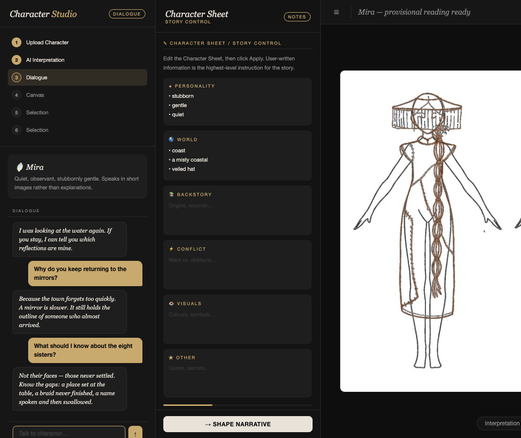
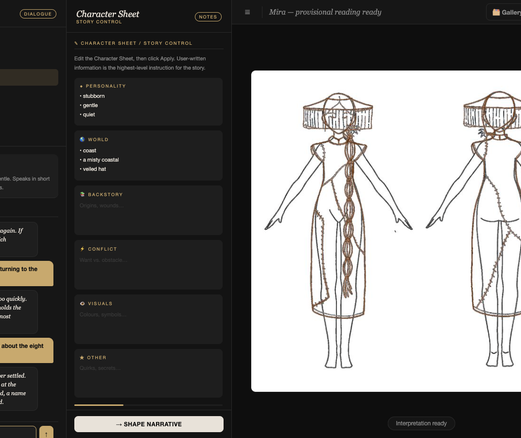
Rename HarvardXR Digital Map and refresh project cover images.
Use the stamps product composite for HXR listing/hero, and Character Studio dialogue UI for clearer first impressions.

diff --git a/src/i18n/zh-dictionary.ts b/src/i18n/zh-dictionary.ts
@@ -1078,12 +1078,13 @@ export const zhDictionary: Record<string, string> = {
   "The goal is not to produce illustrations for the user, but to create a structure in which the artist can ask better questions.": "目标不是替用户产出插画，而是创造一个让创作者提出更好问题的结构。",
   "An AI-assisted tool for illustrators and world-builders that supports character development through dialogue, note-taking, sketching, and visual organization—without replacing authorship or drawing.": "面向插画师与世界观建构者的 AI 辅助工具：通过对话、记笔记、草图与视觉组织支持角色发展——不取代作者权或绘画。",
   "Character Studio — AI-assisted character and worldbuilding interface": "Character Studio — AI 辅助的角色与世界观界面",
-  "HXR Digital Map": "HXR Digital Map",
+  "HXR Digital Map": "HarvardXR Digital Map",
+  "HarvardXR Digital Map": "HarvardXR Digital Map",
   "Product Management": "产品管理",
   "HarvardXR Conference · Product Management · 2026": "HarvardXR Conference · 产品管理 · 2026",
   "A mobile web companion for navigating Gund Hall, collecting stamps, and voting during HXR 2026.": "在 HXR 2026 期间用于导航 Gund Hall、收集印章与投票的移动网页伴侣。",
   "One digital map for the conference day": "给会议日用的一张数字地图",
-  "HXR Digital Map is the official digital companion for HarvardXR Conference 2026 — XR +: From Pixel to Voxel. As Product Manager, I defined the audience and guest login flows, the interactive venue map, the digital passport stamp system, and one-vote-per-person showcase voting, then shipped the product for live use on conference day.": "HXR Digital Map 是 HarvardXR Conference 2026 — XR +: From Pixel to Voxel 的官方数字伴侣。作为产品经理，我定义了观众与嘉宾登录流程、互动场馆地图、数字护照印章系统，以及每人一票的展示投票，并在会议当天上线交付。",
+  "HXR Digital Map is the official digital companion for HarvardXR Conference 2026 — XR +: From Pixel to Voxel. As Product Manager, I defined the audience and guest login flows, the interactive venue map, the digital passport stamp system, and one-vote-per-person showcase voting, then shipped the product for live use on conference day.": "HarvardXR Digital Map 是 HarvardXR Conference 2026 — XR +: From Pixel to Voxel 的官方数字伴侣。作为产品经理，我定义了观众与嘉宾登录流程、互动场馆地图、数字护照印章系统，以及每人一票的展示投票，并在会议当天上线交付。",
   "HXR Conference 2026 event map graphic with floor plan, QR code, and phone mockup": "HXR Conference 2026 活动地图：平面图、二维码与手机示意",
   "Product Manager": "产品经理",
   "Organization": "组织",
@@ -1142,8 +1143,12 @@ export const zhDictionary: Record<string, string> = {
   "The product job was not to add another brochure — it was to keep people oriented, participating, and deciding inside one shared event system.": "产品的工作不是再做一份手册——而是让人在同一个活动系统里保持定向、参与和决策。",
   "The official digital companion for HarvardXR Conference 2026: ticket and guest login, an interactive Gund Hall map, digital passport stamps, and one-vote showcase voting.": "HarvardXR Conference 2026 的官方数字伴侣：购票与嘉宾登录、Gund Hall 互动地图、数字护照印章，以及每人一票的展示投票。",
   "Figma, Web Product": "Figma, Web Product",
-  "HXR Digital Map — conference floor plan, stamps, and voting on mobile": "HXR Digital Map — 会议平面图、印章与手机投票",
-  "HXR Digital Map is the official digital companion for HarvardXR Conference 2026 — XR +: From Pixel to Voxel. As Product Manager and UX Designer, I defined audience and guest entry, mapped the Gund Hall experience, and shaped the stamp and voting flows. Chloe Ni designed the UI; Wenxin Li built the backend. Together we shipped a Next.js product with live Notion-backed rooms, passport stamps, and one-vote showcase voting.": "HXR Digital Map 是 HarvardXR Conference 2026 — XR +: From Pixel to Voxel 的官方数字伴侣。作为产品经理与 UX 设计师，我定义了观众与嘉宾入口、梳理 Gund Hall 体验，并塑造印章与投票流程。Chloe Ni 负责 UI；Wenxin Li 负责后端。我们共同交付了基于 Next.js、由 Notion 支撑房间、护照印章与每人一票展示投票的产品。",
+  "HXR Digital Map — conference floor plan, stamps, and voting on mobile": "HarvardXR Digital Map — 会议平面图、印章与手机投票",
+  "HarvardXR Digital Map — conference map, stamps, and passport on mobile": "HarvardXR Digital Map — 会议地图、印章与手机护照",
+  "HarvardXR Digital Map product overview with phone screens, digital stamps, and passport collection": "HarvardXR Digital Map 产品总览：手机界面、数字印章与护照收集",
+  "Character Studio dialogue workspace with character sheet and drawing": "Character Studio 对话工作区：角色表与绘画",
+  "HXR Digital Map is the official digital companion for HarvardXR Conference 2026 — XR +: From Pixel to Voxel. As Product Manager and UX Designer, I defined audience and guest entry, mapped the Gund Hall experience, and shaped the stamp and voting flows. Chloe Ni designed the UI; Wenxin Li built the backend. Together we shipped a Next.js product with live Notion-backed rooms, passport stamps, and one-vote showcase voting.": "HarvardXR Digital Map 是 HarvardXR Conference 2026 — XR +: From Pixel to Voxel 的官方数字伴侣。作为产品经理与 UX 设计师，我定义了观众与嘉宾入口、梳理 Gund Hall 体验，并塑造印章与投票流程。Chloe Ni 负责 UI；Wenxin Li 负责后端。我们共同交付了基于 Next.js、由 Notion 支撑房间、护照印章与每人一票展示投票的产品。",
+  "HarvardXR Digital Map is the official digital companion for HarvardXR Conference 2026 — XR +: From Pixel to Voxel. As Product Manager and UX Designer, I defined audience and guest entry, mapped the Gund Hall experience, and shaped the stamp and voting flows. Chloe Ni designed the UI; Wenxin Li built the backend. Together we shipped a Next.js product with live Notion-backed rooms, passport stamps, and one-vote showcase voting.": "HarvardXR Digital Map 是 HarvardXR Conference 2026 — XR +: From Pixel to Voxel 的官方数字伴侣。作为产品经理与 UX 设计师，我定义了观众与嘉宾入口、梳理 Gund Hall 体验，并塑造印章与投票流程。Chloe Ni 负责 UI；Wenxin Li 负责后端。我们共同交付了基于 Next.js、由 Notion 支撑房间、护照印章与每人一票展示投票的产品。",
   "Product Manager & UX Designer": "产品经理 & UX 设计师",
   "Team": "团队",
   "Chloe Ni · UI/UX · Wenxin Li · Backend": "Chloe Ni · UI/UX · Wenxin Li · 后端",
@@ -1179,7 +1184,7 @@ export const zhDictionary: Record<string, string> = {
   "Example HXR framed photo card with conference branding and stamp": "带会议品牌与印章的 HXR 框内照片示例卡",
   "The official digital companion for HarvardXR Conference 2026: audience and guest login, an interactive Gund Hall map, digital passport stamps, and one-vote showcase voting. Product Manager & UX Designer with Chloe Ni (UI/UX) and Wenxin Li (Backend).": "HarvardXR Conference 2026 的官方数字伴侣：观众与嘉宾登录、Gund Hall 互动地图、数字护照印章，以及每人一票的展示投票。产品经理与 UX 设计师，协作 Chloe Ni（UI/UX）与 Wenxin Li（后端）。",
   "The official digital companion for HarvardXR Conference 2026: audience and guest login, an interactive Gund Hall map, digital passport stamps, and one-vote showcase voting. Product Manager & UX Designer with Chloe Ni (UI Design) and Wenxin Li (Backend).": "HarvardXR Conference 2026 的官方数字伴侣：观众与嘉宾登录、Gund Hall 互动地图、数字护照印章，以及每人一票的展示投票。产品经理与 UX 设计师，协作 Chloe Ni（UI 设计）与 Wenxin Li（后端）。",
-  "HXR Digital Map mobile screen showing the Gund Hall interactive floor plan": "HXR Digital Map 手机界面：Gund Hall 互动平面图",
+  "HXR Digital Map mobile screen showing the Gund Hall interactive floor plan": "HarvardXR Digital Map 手机界面：Gund Hall 互动平面图",
   "Stack": "技术栈",
   "Next.js, Vercel, Notion": "Next.js, Vercel, Notion",
   "Gund Hall holds sessions, demos, check-in, and showcase traffic at once. The product needed a single mobile entry point that could route people into the right identity path, orient them on the floor, record participation, and support Audience Choice voting without adding friction at the door.": "Gund Hall 同时承载环节、演示、签到与展示人流。产品需要一个移动入口：把人带进正确身份路径、在平面上定位、记录参与，并支持 Audience Choice 投票，同时不在门口增加摩擦。",

diff --git a/src/data/case-studies/hxr-digital-map.ts b/src/data/case-studies/hxr-digital-map.ts
@@ -19,7 +19,7 @@ function app(
 
 export const hxrDigitalMapCaseStudy: CaseStudy = {
   slug: "hxr-digital-map",
-  title: "HXR Digital Map",
+  title: "HarvardXR Digital Map",
   category: "Product Management · UX",
   year: "2026",
   kicker: "HarvardXR Conference · Product & UX · 2026",
@@ -27,12 +27,12 @@ export const hxrDigitalMapCaseStudy: CaseStudy = {
     "A mobile web companion for navigating Gund Hall, collecting stamps, and voting during HXR 2026.",
   editorialTitle: "One digital map for the conference day",
   summary:
-    "HXR Digital Map is the official digital companion for HarvardXR Conference 2026 — XR +: From Pixel to Voxel. As Product Manager and UX Designer, I defined audience and guest entry, mapped the Gund Hall experience, and shaped the stamp and voting flows. Chloe Ni designed the UI; Wenxin Li built the backend. Together we shipped a Next.js product with live Notion-backed rooms, passport stamps, and one-vote showcase voting.",
+    "HarvardXR Digital Map is the official digital companion for HarvardXR Conference 2026 — XR +: From Pixel to Voxel. As Product Manager and UX Designer, I defined audience and guest entry, mapped the Gund Hall experience, and shaped the stamp and voting flows. Chloe Ni designed the UI; Wenxin Li built the backend. Together we shipped a Next.js product with live Notion-backed rooms, passport stamps, and one-vote showcase voting.",
   hero: {
-    src: `${root}/app/map.png`,
-    alt: "HXR Digital Map mobile screen showing the Gund Hall interactive floor plan",
-    width: 780,
-    height: 1688,
+    src: `${root}/hero/product-overview.png`,
+    alt: "HarvardXR Digital Map product overview with phone screens, digital stamps, and passport collection",
+    width: 1440,
+    height: 810,
   },
   metadata: [
     { label: "Role", value: "Product Manager & UX Designer" },

diff --git a/src/data/case-studies/character-studio.ts b/src/data/case-studies/character-studio.ts
@@ -27,7 +27,7 @@ export const characterStudioCaseStudy: CaseStudy = {
     "Character Studio is a browser-based workspace for illustrators and world-builders. Starting with an uploaded drawing, it combines visual interpretation, character dialogue, narrative shaping, and an infinite canvas while keeping every creative decision with the artist.",
   hero: shot(
     "hero/character-studio-ui.png",
-    "Character Studio interface showing an infinite canvas and workflow sidebar",
+    "Character Studio dialogue workspace with character sheet and drawing",
   ),
   metadata: [
     { label: "Role", value: "Experience Designer & Creative Technologist" },

diff --git a/src/data/assets.ts b/src/data/assets.ts
@@ -224,7 +224,7 @@ export const homepageCardAssets = {
       src: "/images/home/experience-cards/hxr-digital-map-default.png",
       width: 521,
       height: 438,
-      alt: "HXR Digital Map",
+      alt: "HarvardXR Digital Map",
     },
     hoverFrames: [
       {
@@ -380,7 +380,7 @@ export const experienceListingMedia = {
       { index: 2, ext: "png" },
       { index: 3, ext: "png" },
     ],
-    "HXR Digital Map — conference floor plan, stamps, and voting on mobile",
+    "HarvardXR Digital Map — conference map, stamps, and passport on mobile",
   ),
 } as const satisfies Record<string, HoverLoopSet>;
 

diff --git a/src/components/case-study/CaseArchitectureDiagram.tsx b/src/components/case-study/CaseArchitectureDiagram.tsx
@@ -24,7 +24,7 @@ export function CaseArchitectureDiagram({
   return (
     <div className="case-architecture" aria-label="Technical architecture">
       <div className="case-architecture__header">
-        <span>HXR Digital Map</span>
+        <span>HarvardXR Digital Map</span>
         <span>{locale === "zh" ? "技术架构" : "Technical architecture"}</span>
       </div>
       <div className="case-architecture__flow">

diff --git a/src/data/projects.ts b/src/data/projects.ts
@@ -50,7 +50,7 @@ export const projects: Project[] = [
   },
   {
     slug: "hxr-digital-map",
-    title: "HXR Digital Map",
+    title: "HarvardXR Digital Map",
     category: "Product Management · UX",
     year: "2026",
     summary:
